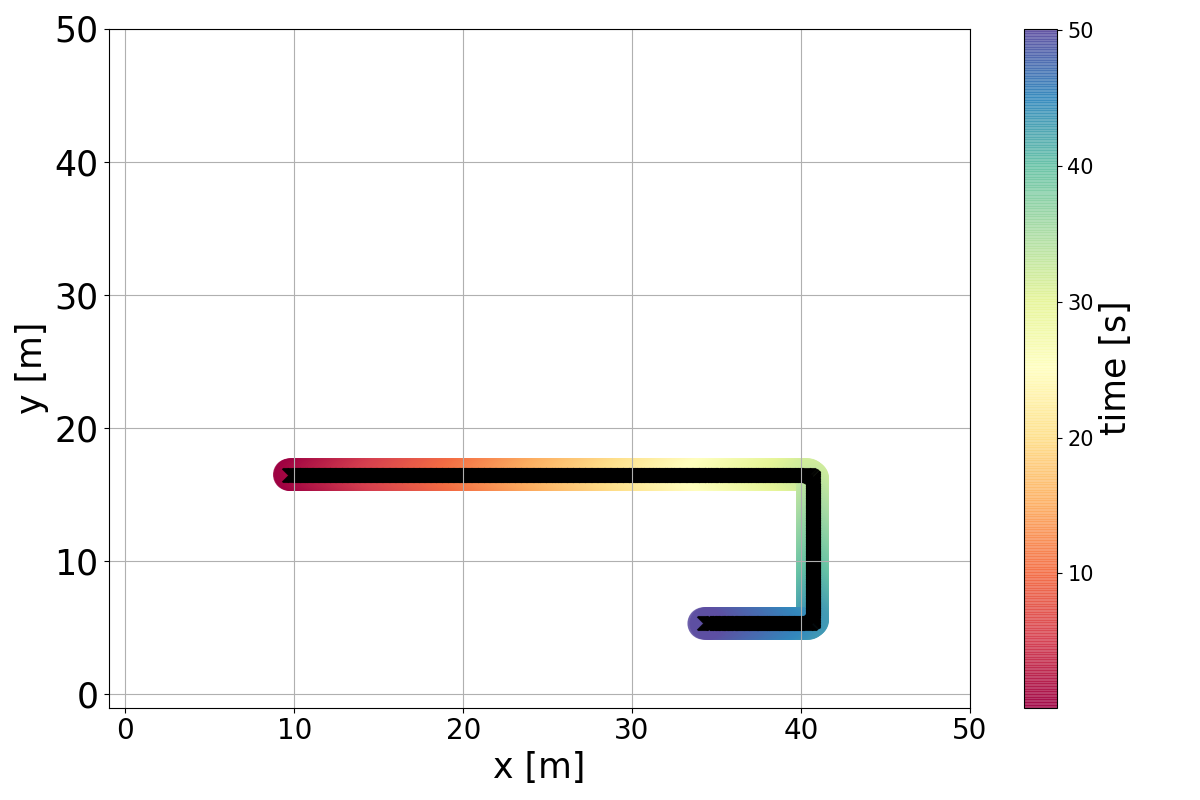
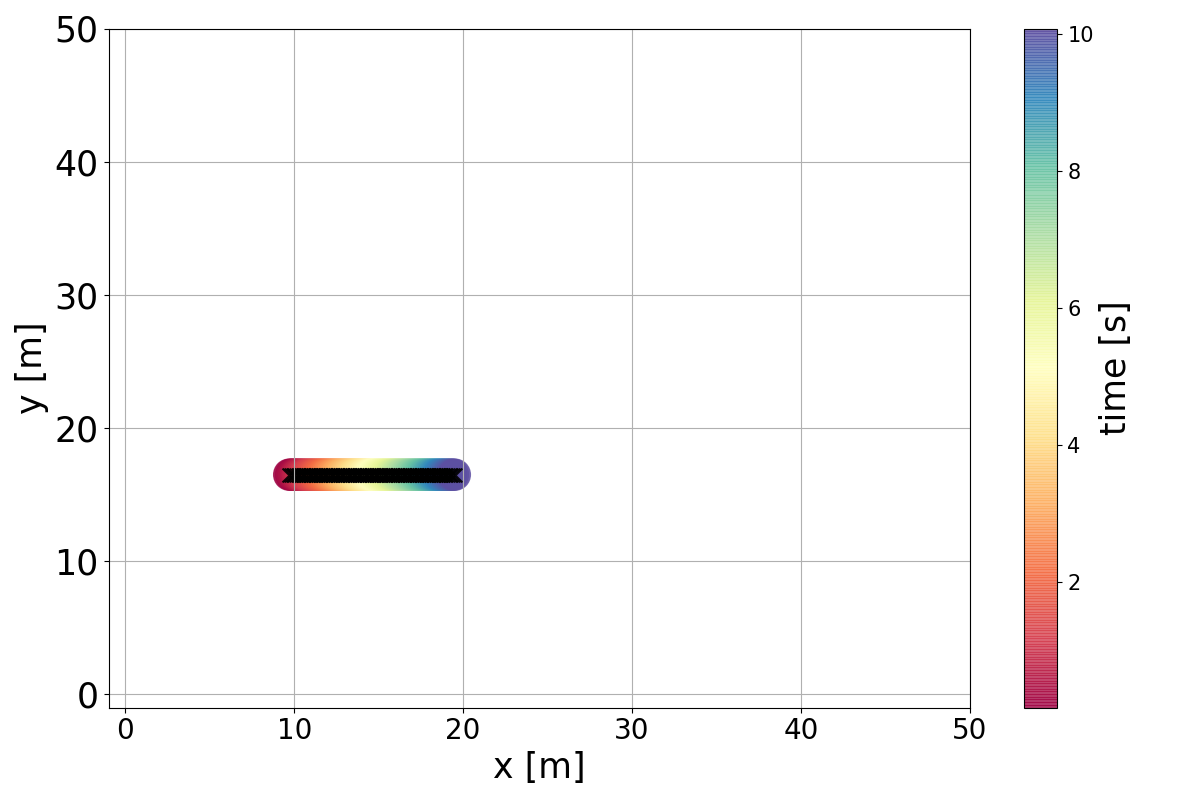
plots added

diff --git a/to_share/Data_saved-chapitre3-kalman/plot_chap3.py b/to_share/Data_saved-chapitre3-kalman/plot_chap3.py
@@ -7,6 +7,8 @@ import numpy as np
 
 constants.ResultsPath.folder = "../../to_share"
 constants.ResultsPath.name_simulation = "chapitre3-kalman"
+constants.ResultsPath.folder = "../../results"
+constants.ResultsPath.name_simulation = "dkf_test_4_targets"
 
 target_ploter = Analyser_Target_TargetEstimator_FormatCSV("",constants.ResultsPath.SAVE_LOAD_DATA_REFERENCE,
                                                                         constants.ResultsPath.SAVE_LAOD_PLOT_FOLDER)

diff --git a/src/main.py b/src/main.py
@@ -10,10 +10,10 @@ by default in maps
 """
 
 map_to_test_name = ["Simple_map","Super_use-case_fix","Super_use-case_fix_failure","Super_use-case"]
-map_to_test_name = ["Simple_map"]
+map_to_test_name = ["dkf_test_4_targets"]
 
 """ Used to specify whether we want to use arguments passed from user. """
-use_args = False
+use_args = True
 
 """
 Variable here are use to set the desired parameter during the simulation.

diff --git a/src/plot_functions/main_plot.py b/src/plot_functions/main_plot.py
@@ -71,7 +71,7 @@ def plot_res(room, filename):
         message_plot = MessagePlot(agent.id)
         agent_estimator_plot = AgentEstimatorPloter(agent.id)
         "Graph to plot"
-        ###message_plot.plot()
+        message_plot.plot()
         ###agent_estimator_plot.plot()
 
         """Including every target"""

diff --git a/src/constants.py b/src/constants.py
@@ -11,7 +11,7 @@ In this file you have the possibility to modify the settings
 
 
 SAVE_DATA = True
-GENERATE_PLOT = False
+GENERATE_PLOT = True
 LOAD_DATA = LoadData.FROM_TXT_FILE
 
 
